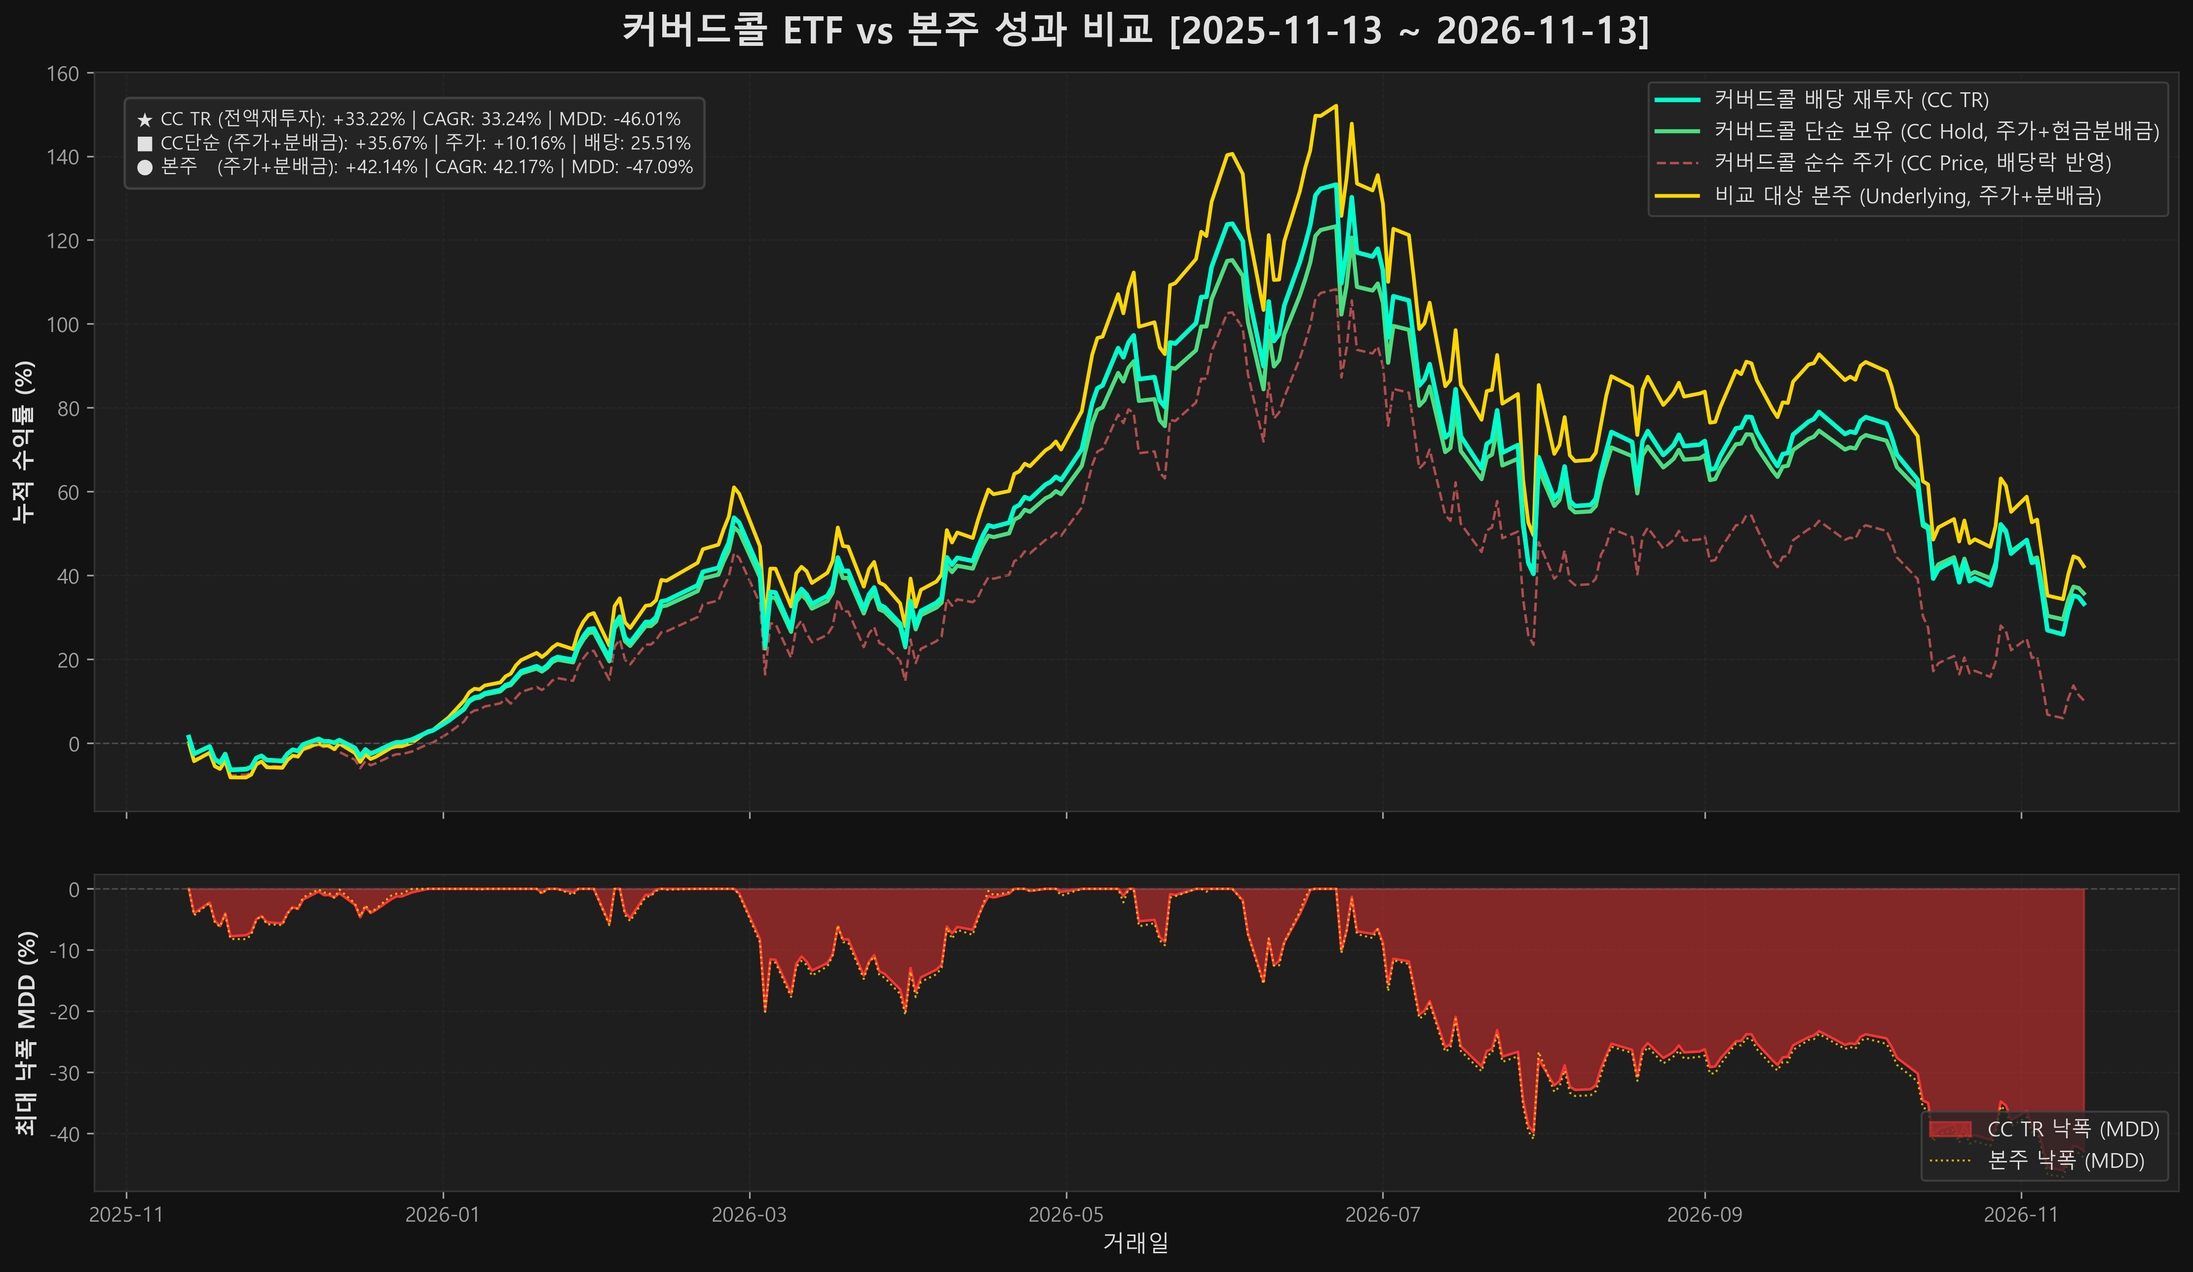
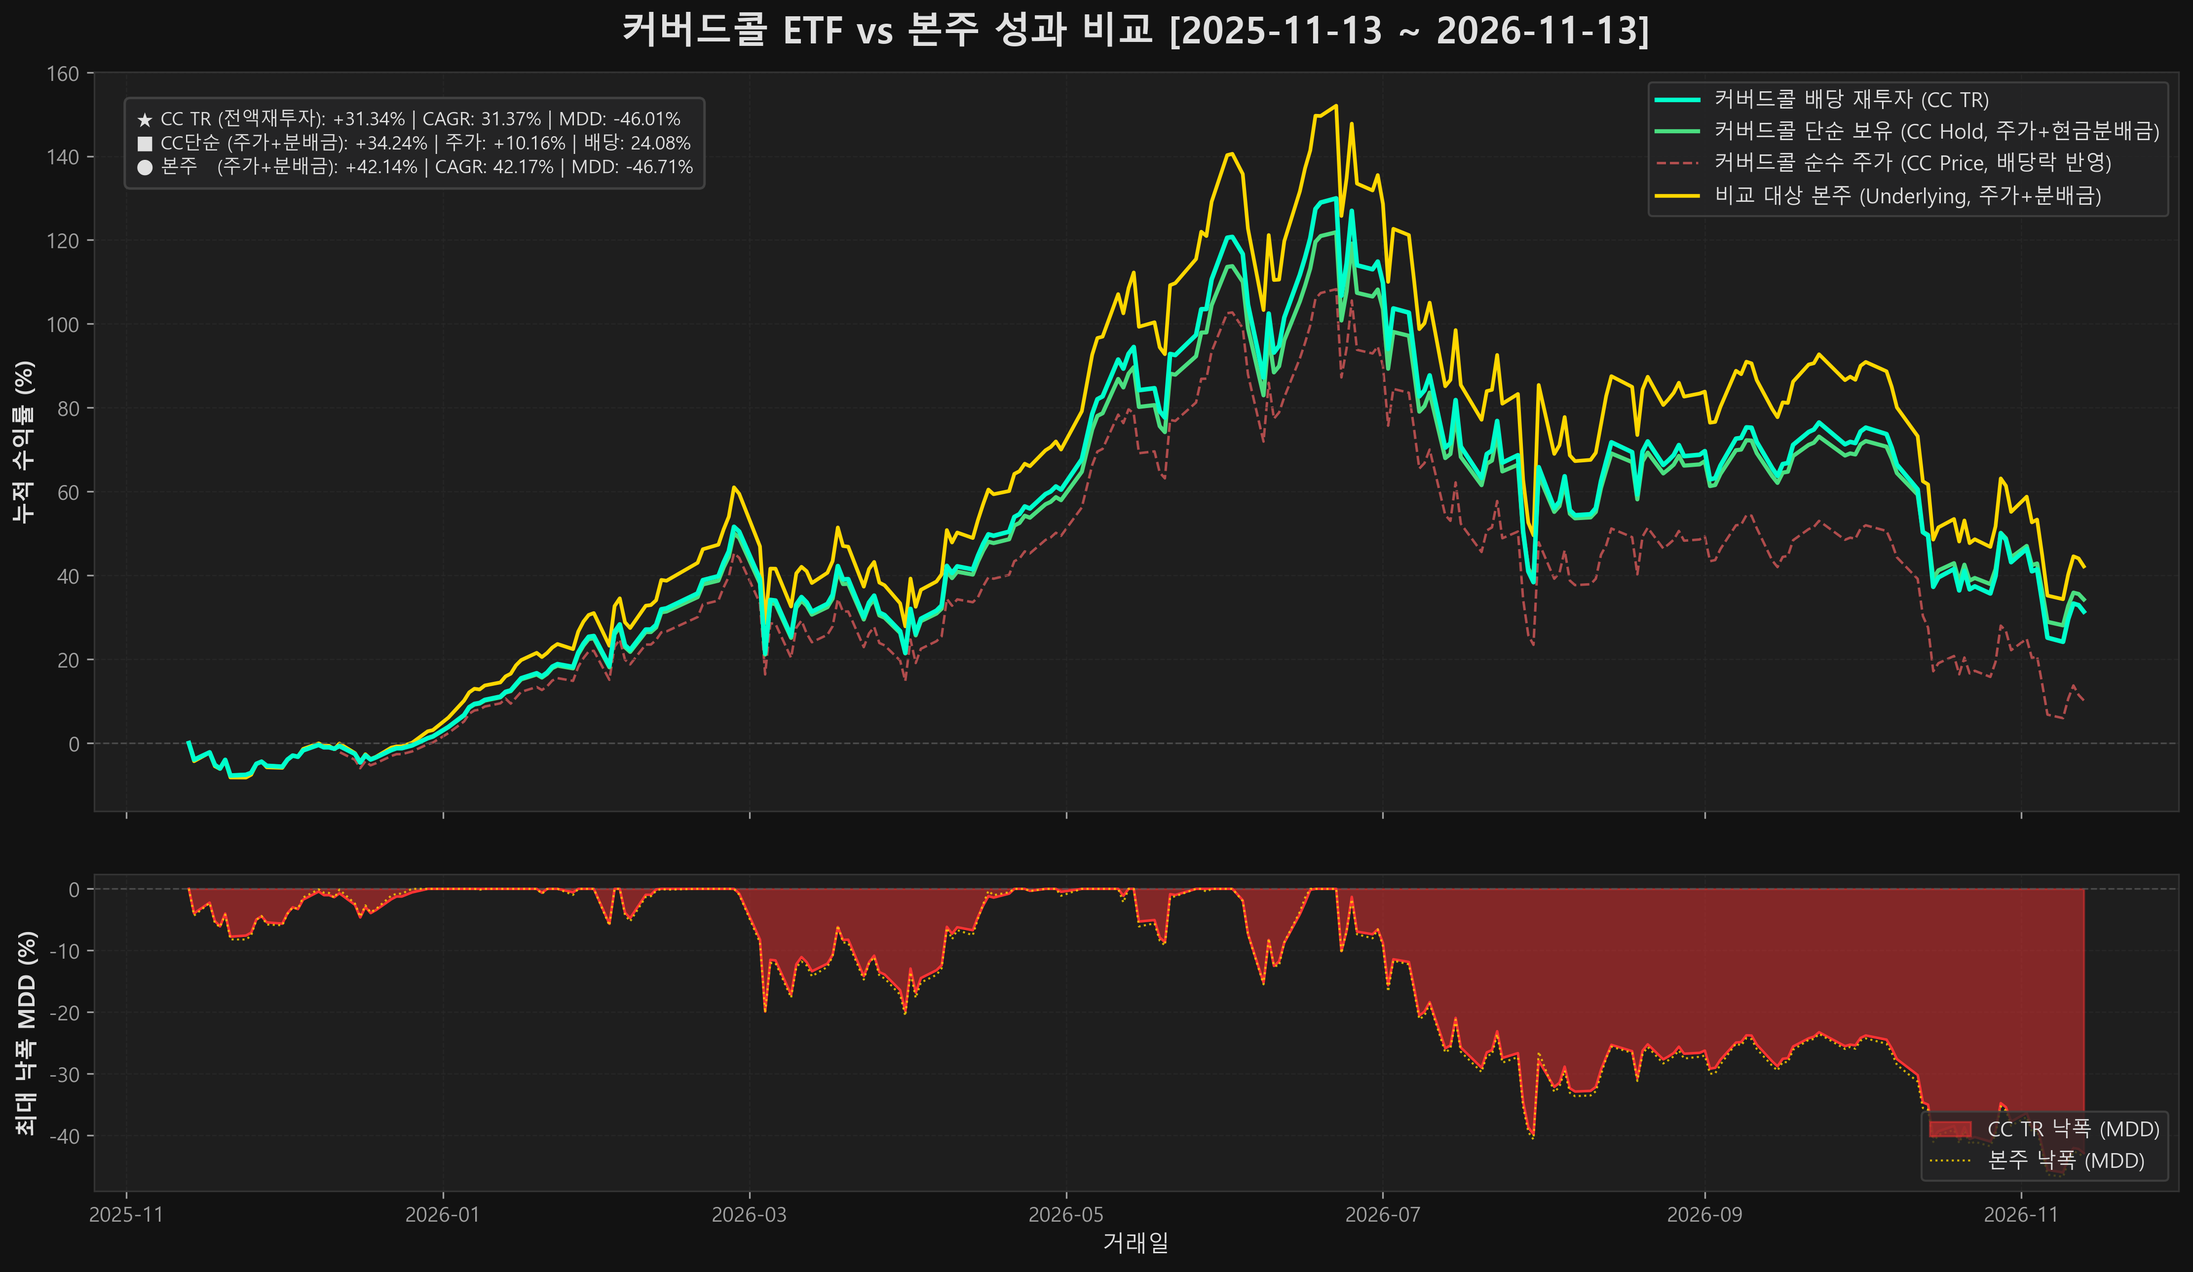
feat(blog): publish daily covered call review [2026-11-15] - Day 2 (국내지수, 2 ETFs: 498400, 0219E0)

diff --git a/_posts/2026-11-15-0219E0-covered-call-backtest.md b/_posts/2026-11-15-0219E0-covered-call-backtest.md
@@ -1,0 +1,77 @@
+---
+layout: post
+title: '[커버드콜 실측] KODEX 200커버드콜액티브 vs KODEX 200 1년 실측 성과 비교'
+date: 2026-11-15 09:00:00 +0900
+category: '커버드콜 분석'
+categories: ['커버드콜 분석']
+tags: [커버드콜, 삼성자산운용(ETF), KODEX200커버드콜액티브, 배당투자, 실측백테스팅, 월배당, KODEX200]
+author: '맥락트레이딩 리서치팀'
+excerpt: 'KODEX 200커버드콜액티브의 1년 실측 종합수익률(TR), 누적 분배금, 최대 낙폭(MDD)을 팩트 데이터로 정밀 비교 분석합니다.'
+---
+
+매달 통장에 꼬박꼬박 들어오는 높은 분배금, 과연 **내 소중한 원금은 안전하게 지켜지고 있는 것일까요?**
+
+많은 투자자들이 연 10~20%라는 매력적인 분배율 숫자에 이끌려 커버드콜 ETF를 매수하지만, 배당락으로 주가가 내려앉을 때마다 '원금이 녹아내리는 것은 아닌가' 하는 깊은 불안을 마주하게 됩니다. 하지만 배당락으로 떨어진 주가만 볼 것이 아니라, **실제로 통장에 들어온 누적 현금 분배금을 합산한 '진짜 총자산(Ending Wealth)'**을 계산해 보면 전혀 다른 성적표가 나타납니다.
+
+본 분석에서는 최근 1년간의 실제 매매 데이터를 바탕으로 **KODEX 200커버드콜액티브**의 단순보유 총자산, 전액 재투자 복리 수익률(Total Return), 그리고 비교 대상 본주(KODEX 200)와의 1:1 진검승부 결과를 팩트 그대로 해부합니다.
+
+### 📈 1년 성과 시각화 그래프 (Portfolio Visualizer Mode 2 실측)
+
+![KODEX 200커버드콜액티브 성과 비교 차트](/assets/img/0219E0_comparison.png)
+
+> 🔍 **실전 차트 판독 가이드**: 위 그래프에서 **초록색 실선(단순보유 총자산)**과 **회색 점선(순수 주가)** 사이의 간격을 유심히 살펴보시기 바랍니다. 배당락으로 회색 점선(주가)은 아래로 떨어졌지만, 통장에 들어온 현금 분배금을 더한 초록색 실선은 실질적인 내 계좌 자산의 궤적을 증명합니다. 두 선 사이의 벌어진 틈새가 바로 **우리가 1년간 실제로 챙긴 누적 현금 배당의 실체**입니다.
+
+
+## 1. 성과 요약
+- **분석 기간**: 2026-07-14 ~ 2026-11-13 (1Y, 총 122일)
+- **초기 투자 원금**: 10,000,000원
+- **적용 배당소득세율**: 0.0%
+- **상장일 조정 안내**: 공통 상장 기간 정렬을 위해 시작일을 2026-07-14로 단축 조정하였습니다.
+
+## 2. 전략별 수익률 및 위험 지표 (최종 총자산 종합 성과 비교)
+| 전략 | 초기 원금 | 최종 주식 평가액 | 누적 수령 분배금(현금) | 최종 총자산 | 최종 종합 수익률(Total Return) | CAGR | MDD |
+|---|---|---|---|---|---|---|---|
+| 커버드콜 단순보유 | 10,000,000원 | 6,902,357원 | 708,193원 | 7,610,550원 | **-23.89%** | N/A (1년 미만) | -32.85% |
+| 커버드콜 TR 재투자 | 10,000,000원 | 7,492,362원 | 0원 (전액 재투자) | 7,492,362원 | **-25.08%** | N/A (1년 미만) | -34.29% |
+| 비교 대상 본주 | 10,000,000원 | 7,575,191원 | 29,074원 | 7,604,265원 | **-23.96%** | N/A (1년 미만) | -32.49% |
+
+### 💡 최종 종합 수익률(Total Return) 핵심 분석 및 공식
+- **커버드콜 단순보유**: `최종 총자산 = 최종 주식 평가액 + 통장 수령 분배금(현금)` ➔ 수령한 분배금을 합산한 실질적인 투자 총수익률
+- **커버드콜 TR 재투자**: `최종 총자산 = 전액 주식 재투자 평가액 (현금 잔고 0원)` ➔ 분배금을 지속 재투자하여 주식수를 복리로 축적한 최종 수익률
+- **비교 대상 본주**: `최종 총자산 = 본주 주식 평가액 + 본주 수령 분배금(현금)` ➔ 본주에서 발생한 배당금을 합산한 본주 총수익률
+
+### 📈 시각화 그래프 4대 곡선 심층 해설 (Portfolio Visualizer 글로벌 표준)
+1. 🔵 **커버드콜 배당 재투자 (CC TR, 청록색 실선)**: 매 분배금 지급 시 전액 당일 종가로 재매수하여 주식수를 복리로 축적한 최종 총자산 성장 궤적입니다.
+2. 🟢 **커버드콜 단순 보유 (주가+현금분배금, 녹색 실선)**: 분배금을 재투자하지 않고 통장에 현금으로 보관했을 때의 `[보유주식 평가액 + 누적 현금배당]` 실제 총자산 추이입니다. 배당락 착시 없이 내 진짜 자산의 실질 변동을 보여줍니다.
+3. 🔴 **비교 대상 본주 (주가+배당금, 황금색 실선)**: 본주 보유 중 발생한 배당금까지 현금으로 합산한 본주의 실질 총자산 성장 궤적으로, 커버드콜과 동일한 잣대로 1:1 공정 비교를 제공합니다.
+4. ⚪ **커버드콜 순수 주가 (회색 점선)**: 배당락이 반영된 시장 거래 주가 추이입니다. **녹색 실선(총자산)과 회색 점선(순수 주가) 사이의 간격이 바로 투자자가 통장으로 수령한 누적 현금 분배금의 실체**를 시각적으로 증명합니다.
+
+## 3. 배당금 및 인컴 세부 분석
+- **커버드콜 누적 수령 분배금(현금)**: 708,193원 (투자원금 대비 배당수익률: +7.08%)
+- **커버드콜 순수 주가 수익률 (Price Return)**: -30.98%
+- **비교 대상 본주 누적 수령 분배금(현금)**: 29,074원 (투자원금 대비 배당수익률: +0.29%)
+- **비교 대상 본주 순수 주가 수익률 (Price Return)**: -24.25%
+
+
+
+---
+
+## 💡 실전 투자자를 위한 맥락 분석 & 계좌 운용 노하우
+
+### 1. 상방 제한과 하방 쿠션의 현실적 체감
+**KODEX 200커버드콜액티브**과 같은 커버드콜 상품은 주가 상승에 따른 자본 차익의 일정 부분을 포기하는 대신(콜옵션 매도), 그 대가로 옵션 프리미엄을 받아 매달 높은 현금흐름을 만드는 구조입니다.
+따라서 기초지수가 폭발적으로 급등하는 대세 상승장에서는 본주보다 총수익률이 뒤처질 수밖에 없습니다. 하지만 시장이 지루하게 횡보하거나 완만한 조정을 거칠 때는, 매달 계좌에 꽂히는 현금 분배금이 든든한 방어 쿠션 역할을 하며 심리적 안정감을 제공합니다.
+
+### 2. 절세 계좌(ISA/연금저축/IRP) 활용은 필수
+일반 위탁 계좌에서 커버드콜 ETF를 운용할 경우, 매달 수령하는 분배금에 대해 **15.4%의 배당소득세**가 원천징수되어 복리 효과가 크게 훼손됩니다. 게다가 연간 금융소득이 2,000만 원을 초과하면 금융소득종합과세 대상이 될 위험이 있습니다.
+따라서 커버드콜 투자는 무조건 **ISA(개인종합자산관리계좌)**의 비과세·분리과세 혜택이나 **연금저축/IRP**의 과세이연 효과를 극대화하는 계좌 분리 전략이 계좌의 실질 승패를 가르는 핵심 열쇠입니다.
+
+### 3. 단타 알파 수익의 캐시카우 락인 (3-Pillar 자산 순환 전략)
+데이트레이딩이나 스윙 매매로 큰돈을 번 투자자들도 결국 잦은 매매의 피로와 한 번의 뇌동매매로 수익을 반납하는 경우가 많습니다. 맥락트레이딩이 제안하는 3-Pillar 플라이휠의 핵심은 **'Pillar 2(단타 차트 매매)로 거둔 매매차익의 50%를 커버드콜(Pillar 3)과 같은 고배당 자산으로 이송하여 안전하게 락인하는 것'**입니다.
+매달 자동으로 창출되는 배당 캐시카우가 생활비나 안전판 역할을 해줄 때, 단타 매매에서도 조급증을 버리고 기계적인 칼손절(-1.5%)과 냉정한 타점 공략이 가능해집니다.
+
+---
+
+### 📺 『맥락트레이딩』 공식 채널 안내
+> **'시황으로 맥락을 읽고, 차트로 타점을 잡으며, 백테스팅으로 계좌를 지킨다.'**  
+> 유튜브 공식 채널 **『맥락트레이딩』([@Alpha_Context](https://www.youtube.com/@Alpha_Context))**에서 매일 아침·저녁 1분 증시 맥락과 실전 차트·호가창 강의를 함께 만나보세요.

diff --git a/_posts/2026-11-15-498400-covered-call-backtest.md b/_posts/2026-11-15-498400-covered-call-backtest.md
@@ -1,0 +1,76 @@
+---
+layout: post
+title: '[커버드콜 실측] KODEX 200타겟위클리커버드콜 vs KODEX 200 1년 실측 성과 비교'
+date: 2026-11-15 09:00:00 +0900
+category: '커버드콜 분석'
+categories: ['커버드콜 분석']
+tags: [커버드콜, 삼성자산운용(ETF), KODEX200타겟위클리커버드콜, 배당투자, 실측백테스팅, 월배당, KODEX200]
+author: '맥락트레이딩 리서치팀'
+excerpt: 'KODEX 200타겟위클리커버드콜의 1년 실측 종합수익률(TR), 누적 분배금, 최대 낙폭(MDD)을 팩트 데이터로 정밀 비교 분석합니다.'
+---
+
+매달 통장에 꼬박꼬박 들어오는 높은 분배금, 과연 **내 소중한 원금은 안전하게 지켜지고 있는 것일까요?**
+
+많은 투자자들이 연 10~20%라는 매력적인 분배율 숫자에 이끌려 커버드콜 ETF를 매수하지만, 배당락으로 주가가 내려앉을 때마다 '원금이 녹아내리는 것은 아닌가' 하는 깊은 불안을 마주하게 됩니다. 하지만 배당락으로 떨어진 주가만 볼 것이 아니라, **실제로 통장에 들어온 누적 현금 분배금을 합산한 '진짜 총자산(Ending Wealth)'**을 계산해 보면 전혀 다른 성적표가 나타납니다.
+
+본 분석에서는 최근 1년간의 실제 매매 데이터를 바탕으로 **KODEX 200타겟위클리커버드콜**의 단순보유 총자산, 전액 재투자 복리 수익률(Total Return), 그리고 비교 대상 본주(KODEX 200)와의 1:1 진검승부 결과를 팩트 그대로 해부합니다.
+
+### 📈 1년 성과 시각화 그래프 (Portfolio Visualizer Mode 2 실측)
+
+![KODEX 200타겟위클리커버드콜 성과 비교 차트](/assets/img/498400_comparison.png)
+
+> 🔍 **실전 차트 판독 가이드**: 위 그래프에서 **초록색 실선(단순보유 총자산)**과 **회색 점선(순수 주가)** 사이의 간격을 유심히 살펴보시기 바랍니다. 배당락으로 회색 점선(주가)은 아래로 떨어졌지만, 통장에 들어온 현금 분배금을 더한 초록색 실선은 실질적인 내 계좌 자산의 궤적을 증명합니다. 두 선 사이의 벌어진 틈새가 바로 **우리가 1년간 실제로 챙긴 누적 현금 배당의 실체**입니다.
+
+
+## 1. 성과 요약
+- **분석 기간**: 2025-11-13 ~ 2026-11-13 (1Y, 총 365일)
+- **초기 투자 원금**: 10,000,000원
+- **적용 배당소득세율**: 0.0%
+
+## 2. 전략별 수익률 및 위험 지표 (최종 총자산 종합 성과 비교)
+| 전략 | 초기 원금 | 최종 주식 평가액 | 누적 수령 분배금(현금) | 최종 총자산 | 최종 종합 수익률(Total Return) | CAGR | MDD |
+|---|---|---|---|---|---|---|---|
+| 커버드콜 단순보유 | 10,000,000원 | 11,016,393원 | 2,408,015원 | 13,424,408원 | **+34.24%** | +34.27% | -42.27% |
+| 커버드콜 TR 재투자 | 10,000,000원 | 13,134,260원 | 0원 (전액 재투자) | 13,134,260원 | **+31.34%** | +31.37% | -46.01% |
+| 비교 대상 본주 | 10,000,000원 | 14,070,594원 | 143,051원 | 14,213,645원 | **+42.14%** | +42.17% | -46.71% |
+
+### 💡 최종 종합 수익률(Total Return) 핵심 분석 및 공식
+- **커버드콜 단순보유**: `최종 총자산 = 최종 주식 평가액 + 통장 수령 분배금(현금)` ➔ 수령한 분배금을 합산한 실질적인 투자 총수익률
+- **커버드콜 TR 재투자**: `최종 총자산 = 전액 주식 재투자 평가액 (현금 잔고 0원)` ➔ 분배금을 지속 재투자하여 주식수를 복리로 축적한 최종 수익률
+- **비교 대상 본주**: `최종 총자산 = 본주 주식 평가액 + 본주 수령 분배금(현금)` ➔ 본주에서 발생한 배당금을 합산한 본주 총수익률
+
+### 📈 시각화 그래프 4대 곡선 심층 해설 (Portfolio Visualizer 글로벌 표준)
+1. 🔵 **커버드콜 배당 재투자 (CC TR, 청록색 실선)**: 매 분배금 지급 시 전액 당일 종가로 재매수하여 주식수를 복리로 축적한 최종 총자산 성장 궤적입니다.
+2. 🟢 **커버드콜 단순 보유 (주가+현금분배금, 녹색 실선)**: 분배금을 재투자하지 않고 통장에 현금으로 보관했을 때의 `[보유주식 평가액 + 누적 현금배당]` 실제 총자산 추이입니다. 배당락 착시 없이 내 진짜 자산의 실질 변동을 보여줍니다.
+3. 🔴 **비교 대상 본주 (주가+배당금, 황금색 실선)**: 본주 보유 중 발생한 배당금까지 현금으로 합산한 본주의 실질 총자산 성장 궤적으로, 커버드콜과 동일한 잣대로 1:1 공정 비교를 제공합니다.
+4. ⚪ **커버드콜 순수 주가 (회색 점선)**: 배당락이 반영된 시장 거래 주가 추이입니다. **녹색 실선(총자산)과 회색 점선(순수 주가) 사이의 간격이 바로 투자자가 통장으로 수령한 누적 현금 분배금의 실체**를 시각적으로 증명합니다.
+
+## 3. 배당금 및 인컴 세부 분석
+- **커버드콜 누적 수령 분배금(현금)**: 2,408,015원 (투자원금 대비 배당수익률: +24.08%)
+- **커버드콜 순수 주가 수익률 (Price Return)**: +10.16%
+- **비교 대상 본주 누적 수령 분배금(현금)**: 143,051원 (투자원금 대비 배당수익률: +1.43%)
+- **비교 대상 본주 순수 주가 수익률 (Price Return)**: +40.71%
+
+
+
+---
+
+## 💡 실전 투자자를 위한 맥락 분석 & 계좌 운용 노하우
+
+### 1. 상방 제한과 하방 쿠션의 현실적 체감
+**KODEX 200타겟위클리커버드콜**과 같은 커버드콜 상품은 주가 상승에 따른 자본 차익의 일정 부분을 포기하는 대신(콜옵션 매도), 그 대가로 옵션 프리미엄을 받아 매달 높은 현금흐름을 만드는 구조입니다.
+따라서 기초지수가 폭발적으로 급등하는 대세 상승장에서는 본주보다 총수익률이 뒤처질 수밖에 없습니다. 하지만 시장이 지루하게 횡보하거나 완만한 조정을 거칠 때는, 매달 계좌에 꽂히는 현금 분배금이 든든한 방어 쿠션 역할을 하며 심리적 안정감을 제공합니다.
+
+### 2. 절세 계좌(ISA/연금저축/IRP) 활용은 필수
+일반 위탁 계좌에서 커버드콜 ETF를 운용할 경우, 매달 수령하는 분배금에 대해 **15.4%의 배당소득세**가 원천징수되어 복리 효과가 크게 훼손됩니다. 게다가 연간 금융소득이 2,000만 원을 초과하면 금융소득종합과세 대상이 될 위험이 있습니다.
+따라서 커버드콜 투자는 무조건 **ISA(개인종합자산관리계좌)**의 비과세·분리과세 혜택이나 **연금저축/IRP**의 과세이연 효과를 극대화하는 계좌 분리 전략이 계좌의 실질 승패를 가르는 핵심 열쇠입니다.
+
+### 3. 단타 알파 수익의 캐시카우 락인 (3-Pillar 자산 순환 전략)
+데이트레이딩이나 스윙 매매로 큰돈을 번 투자자들도 결국 잦은 매매의 피로와 한 번의 뇌동매매로 수익을 반납하는 경우가 많습니다. 맥락트레이딩이 제안하는 3-Pillar 플라이휠의 핵심은 **'Pillar 2(단타 차트 매매)로 거둔 매매차익의 50%를 커버드콜(Pillar 3)과 같은 고배당 자산으로 이송하여 안전하게 락인하는 것'**입니다.
+매달 자동으로 창출되는 배당 캐시카우가 생활비나 안전판 역할을 해줄 때, 단타 매매에서도 조급증을 버리고 기계적인 칼손절(-1.5%)과 냉정한 타점 공략이 가능해집니다.
+
+---
+
+### 📺 『맥락트레이딩』 공식 채널 안내
+> **'시황으로 맥락을 읽고, 차트로 타점을 잡으며, 백테스팅으로 계좌를 지킨다.'**  
+> 유튜브 공식 채널 **『맥락트레이딩』([@Alpha_Context](https://www.youtube.com/@Alpha_Context))**에서 매일 아침·저녁 1분 증시 맥락과 실전 차트·호가창 강의를 함께 만나보세요.
